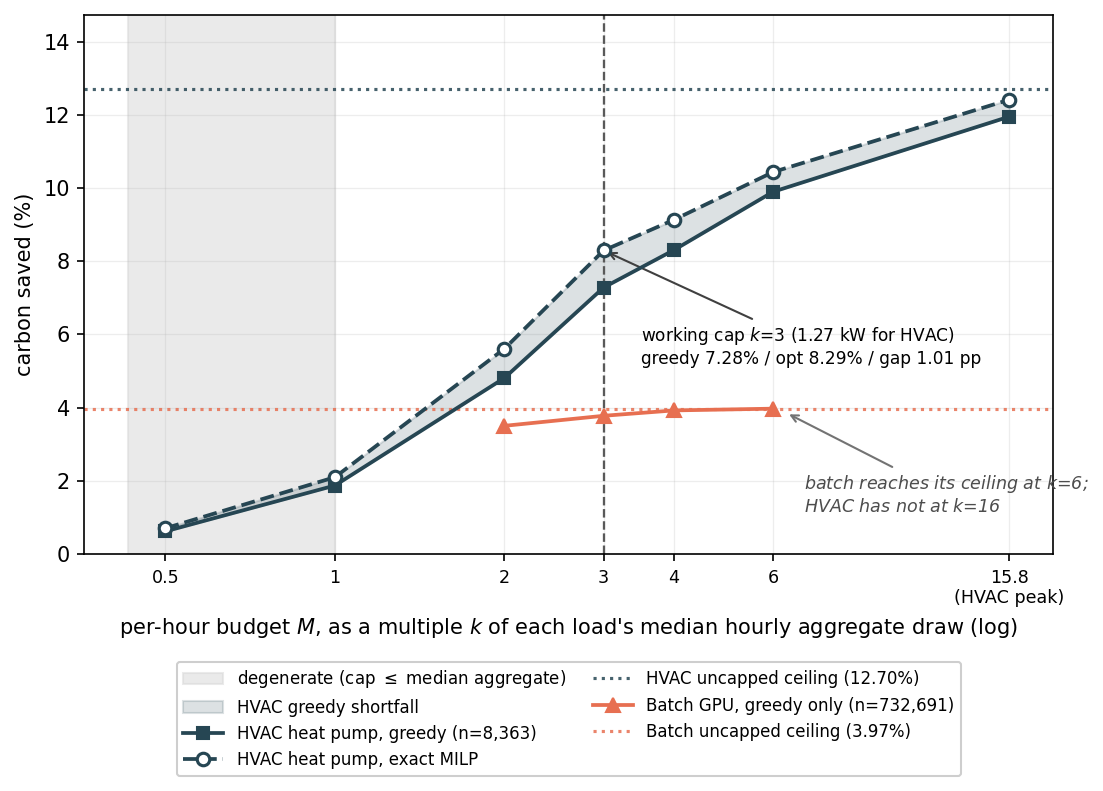
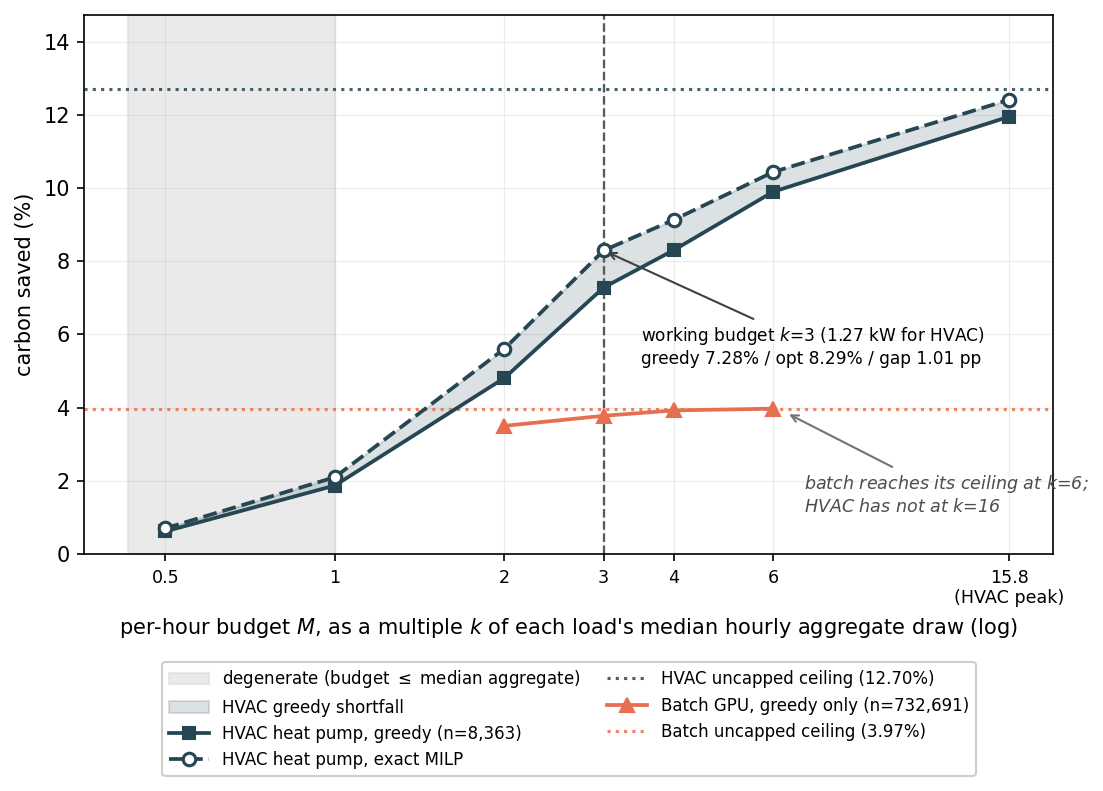
fix(figures): budget terminology in capacity figure; ignore manuscript working copies

Changed region(s): [[0.1541, 0.8496, 0.524, 0.9709], [0.524, 0.8496, 0.8939, 0.9709], [0.6473, 0.3944, 0.8939, 0.4551]]

diff --git a/scripts/fig_r1.py b/scripts/fig_r1.py
@@ -125,7 +125,7 @@ def fig04b(hvac, batch):
 
     fig, ax = plt.subplots(figsize=(7.6, 5.4))
     ax.axvspan(hk.min() * 0.86, 1.0, color="0.85", alpha=0.55, zorder=0,
-               label=r"degenerate (cap $\leq$ median aggregate)")
+               label=r"degenerate (budget $\leq$ median aggregate)")
     ax.fill_between(hk, gy, oy, color=C_HVAC, alpha=0.16, zorder=1, label="HVAC greedy shortfall")
     ax.plot(hk, gy, "s-", color=C_HVAC, lw=1.8, ms=6, zorder=4, label="HVAC heat pump, greedy (n=8,363)")
     ax.plot(hk, oy, "o--", color=C_HVAC, lw=1.8, ms=6, zorder=4, mfc="white", mew=1.5,
@@ -138,7 +138,7 @@ def fig04b(hvac, batch):
                label=f"Batch uncapped ceiling ({ba_unc:.2f}%)")
     w = hvac.loc["M=3x median"]
     ax.axvline(WORKING_CAP_K, ls="--", color="0.35", lw=1.1, zorder=2)
-    ax.annotate(f"working cap $k$={WORKING_CAP_K:g} ({float(w['M_kW']):.2f} kW for HVAC)\n"
+    ax.annotate(f"working budget $k$={WORKING_CAP_K:g} ({float(w['M_kW']):.2f} kW for HVAC)\n"
                 f"greedy {float(w['greedy_pct']):.2f}% / opt {float(w['optimal_pct']):.2f}%"
                 f" / gap {float(w['gap_pp']):.2f} pp",
                 xy=(WORKING_CAP_K, float(w["optimal_pct"])), xytext=(3.5, 5.2),
